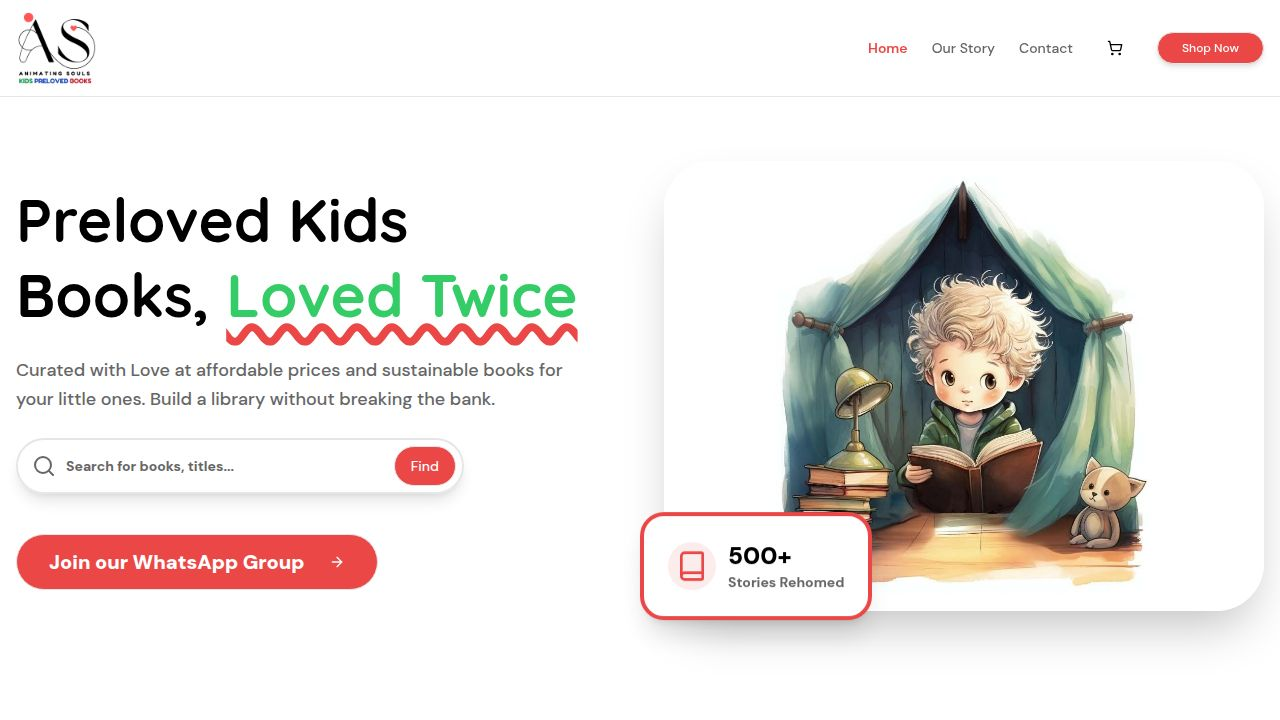
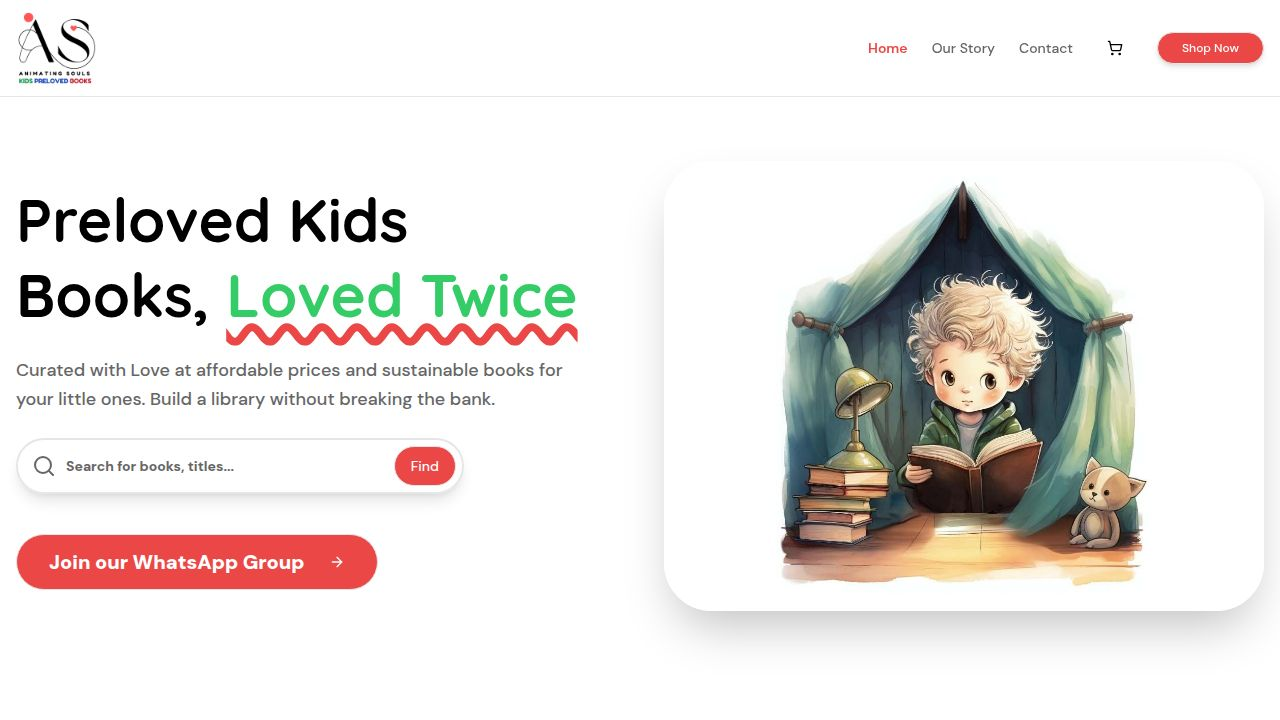
Refine website layout and visual appeal for improved user experience
Update homepage hero section to remove the floating badge and enhance the "Shop by Type" section with unique colors and images. Simplify the "Our Story" page by removing stylized boxes and present content in paragraphs. Adjust Rekha's testimonial location to "India" and remove specific info-boxes from the homepage for a cleaner aesthetic.

Replit-Commit-Author: Agent
Replit-Commit-Session-Id: 12e470dd-af60-4a19-88cd-6d650ea7816f
Replit-Commit-Checkpoint-Type: full_checkpoint
Replit-Commit-Event-Id: 63040621-a51c-4866-9b80-9bc93127da32
Replit-Commit-Screenshot-Url: https://storage.googleapis.com/screenshot-production-us-central1/ba9d9e63-1f79-4c0d-8176-77591e274810/12e470dd-af60-4a19-88cd-6d650ea7816f/u0h1t5J
Replit-Helium-Checkpoint-Created: true

Changed region(s): [[0.5, 0.7028, 0.6875, 0.8861]]

diff --git a/client/src/pages/home.tsx b/client/src/pages/home.tsx
@@ -92,19 +92,6 @@ export default function Home() {
                   className="w-full h-full object-cover"
                 />
               </div>
-              
-              {/* Floating Badge */}
-              <div className="absolute -bottom-6 -left-6 bg-white p-6 rounded-3xl shadow-xl border-4 border-primary animate-bounce hidden md:block">
-                <div className="flex items-center gap-3">
-                  <div className="bg-primary/10 p-2 rounded-xl">
-                    <BookIcon className="h-8 w-8 text-primary" />
-                  </div>
-                  <div>
-                    <p className="font-black text-2xl">500+</p>
-                    <p className="text-sm font-bold text-muted-foreground">Stories Rehomed</p>
-                  </div>
-                </div>
-              </div>
             </div>
           </div>
         </div>
@@ -159,14 +146,14 @@ export default function Home() {
           >
             <CarouselContent className="-ml-4">
               {[
-                { id: 'Board Book', label: 'Board Books', color: 'bg-primary/10', borderColor: 'border-primary' },
-                { id: 'Paperback', label: 'Paperbacks', color: 'bg-chart-2/10', borderColor: 'border-chart-2' },
-                { id: 'Hardcover', label: 'Hardcovers', color: 'bg-accent/10', borderColor: 'border-accent' },
-                { id: 'Disney Marvel', label: 'Disney Marvel', color: 'bg-chart-1/10', borderColor: 'border-chart-1' },
-                { id: 'General Knowledge', label: 'GK Books', color: 'bg-secondary/10', borderColor: 'border-secondary' },
-                { id: 'Phonics', label: 'Phonics', color: 'bg-primary/20', borderColor: 'border-primary' },
-                { id: 'Activity Book', label: 'Activity', color: 'bg-chart-2/20', borderColor: 'border-chart-2' },
-                { id: 'below-50', label: 'Below 50Rs', color: 'bg-accent/20', borderColor: 'border-accent' },
+                { id: 'Board Book', label: 'Board Books', color: 'bg-[#FFEBEE]', borderColor: 'border-[#FFCDD2]', image: 'https://images.unsplash.com/photo-1512820790803-83ca734da794?q=80&w=200&h=150&auto=format&fit=crop' },
+                { id: 'Paperback', label: 'Paperbacks', color: 'bg-[#E3F2FD]', borderColor: 'border-[#BBDEFB]', image: 'https://images.unsplash.com/photo-1544947950-fa07a98d237f?q=80&w=200&h=150&auto=format&fit=crop' },
+                { id: 'Hardcover', label: 'Hardcovers', color: 'bg-[#F1F8E9]', borderColor: 'border-[#DCEDC8]', image: 'https://images.unsplash.com/photo-1495446815901-a7297e633e8d?q=80&w=200&h=150&auto=format&fit=crop' },
+                { id: 'Disney Marvel', label: 'Disney Marvel', color: 'bg-[#FFF3E0]', borderColor: 'border-[#FFE0B2]', image: 'https://images.unsplash.com/photo-1618519764620-7403abdbdfe9?q=80&w=200&h=150&auto=format&fit=crop' },
+                { id: 'General Knowledge', label: 'GK Books', color: 'bg-[#F3E5F5]', borderColor: 'border-[#E1BEE7]', image: 'https://images.unsplash.com/photo-1532012197267-da84d127e765?q=80&w=200&h=150&auto=format&fit=crop' },
+                { id: 'Phonics', label: 'Phonics', color: 'bg-[#E0F7FA]', borderColor: 'border-[#B2EBF2]', image: 'https://images.unsplash.com/photo-1503676260728-1c00da094a0b?q=80&w=200&h=150&auto=format&fit=crop' },
+                { id: 'Activity Book', label: 'Activity', color: 'bg-[#FFFDE7]', borderColor: 'border-[#FFF9C4]', image: 'https://images.unsplash.com/photo-1589998059171-988d887df646?q=80&w=200&h=150&auto=format&fit=crop' },
+                { id: 'below-50', label: 'Below 50Rs', color: 'bg-[#EFEBE9]', borderColor: 'border-[#D7CCC8]', image: 'https://images.unsplash.com/photo-1516979187457-637abb4f9353?q=80&w=200&h=150&auto=format&fit=crop' },
               ].map((type, index) => (
                 <CarouselItem key={index} className="pl-4 md:basis-1/3 lg:basis-1/4">
                   <Link href={`/shop?type=${type.id}`}>
@@ -175,8 +162,12 @@ export default function Home() {
                       type.color,
                       type.borderColor
                     )}>
-                      <div className="w-full h-32 bg-white/50 relative overflow-hidden flex items-center justify-center">
-                        <BookIcon className="h-16 w-16 opacity-20" />
+                      <div className="w-full h-32 bg-white/50 relative overflow-hidden">
+                        <img 
+                          src={type.image}
+                          alt={type.label}
+                          className="w-full h-full object-cover mix-blend-multiply opacity-80"
+                        />
                       </div>
                       <div className="p-4 flex flex-col items-center justify-center flex-grow">
                         <h3 className="font-black text-lg leading-tight">{type.label}</h3>
@@ -190,43 +181,6 @@ export default function Home() {
             <CarouselPrevious className="hidden md:flex" />
             <CarouselNext className="hidden md:flex" />
           </Carousel>
-        </div>
-      </section>
-
-      {/* Why Choose Us */}
-      <section className="py-20 px-4">
-        <div className="container mx-auto">
-          <div className="grid md:grid-cols-3 gap-8">
-            <div className="bg-white p-10 rounded-[3rem] border-4 border-border shadow-[0_12px_0_0_var(--border)] group hover:translate-y-[-4px] transition-all">
-              <div className="w-16 h-16 bg-primary/10 rounded-2xl flex items-center justify-center mb-6 text-primary group-hover:scale-110 transition-transform">
-                <ShieldCheck className="h-10 w-10" />
-              </div>
-              <h3 className="text-2xl font-black mb-4">Meticulously Checked</h3>
-              <p className="text-muted-foreground font-bold leading-relaxed">
-                We hand-check every page. No torn edges, no scribbles, just stories ready to be loved again.
-              </p>
-            </div>
-            
-            <div className="bg-white p-10 rounded-[3rem] border-4 border-border shadow-[0_12px_0_0_var(--border)] group hover:translate-y-[-4px] transition-all">
-              <div className="w-16 h-16 bg-chart-2/10 rounded-2xl flex items-center justify-center mb-6 text-chart-2 group-hover:scale-110 transition-transform">
-                <Zap className="h-10 w-10" />
-              </div>
-              <h3 className="text-2xl font-black mb-4">Affordable Magic</h3>
-              <p className="text-muted-foreground font-bold leading-relaxed">
-                Build a diverse library without the hefty price tag. Quality reading should be accessible to all.
-              </p>
-            </div>
-
-            <div className="bg-white p-10 rounded-[3rem] border-4 border-border shadow-[0_12px_0_0_var(--border)] group hover:translate-y-[-4px] transition-all">
-              <div className="w-16 h-16 bg-accent/10 rounded-2xl flex items-center justify-center mb-6 text-accent group-hover:scale-110 transition-transform">
-                <Clock className="h-10 w-10" />
-              </div>
-              <h3 className="text-2xl font-black mb-4">Eco-Friendly Reading</h3>
-              <p className="text-muted-foreground font-bold leading-relaxed">
-                Rehoming books saves trees and reduces waste. A sustainable choice for a brighter future.
-              </p>
-            </div>
-          </div>
         </div>
       </section>
 

diff --git a/client/src/pages/about.tsx b/client/src/pages/about.tsx
@@ -11,12 +11,9 @@ export default function About() {
             This journey didn’t begin as a business. It began with a child and a book.
           </p>
 
-          <div className="bg-secondary/20 p-8 rounded-[2rem] border-4 border-border">
-            <p className="text-xl text-primary font-black mb-4">Hi, I’m Archana.</p>
-            <p>
-              For over 13 years, my world revolved around graphic design and marketing communication. Deadlines, pixels, brand stories. I loved the craft. Then life quietly changed shape.
-            </p>
-          </div>
+          <p>
+            Hi, I’m Archana. For over 13 years, my world revolved around graphic design and marketing communication. Deadlines, pixels, brand stories. I loved the craft. Then life quietly changed shape.
+          </p>
           
           <p>
             When I stepped away from my IT career for maternity, I didn’t plan to start a business. I simply wanted to spend meaningful time with my son. Like many parents, I noticed something unsettling. Screens were everywhere. Attention spans were shrinking. Physical books were slowly disappearing from daily life.
@@ -42,11 +39,9 @@ export default function About() {
             Today, with over three years of experience, Animating Souls has grown many folds. Not just in numbers, but in purpose.
           </p>
 
-          <div className="p-8 rounded-[2rem] border-4 border-accent/20">
-            <p>
-              Our goal is simple. Encourage children to read. Help parents reconnect with their kids beyond screens. Make books accessible, affordable, and joyful. And remind families that imagination still matters.
-            </p>
-          </div>
+          <p>
+            Our goal is simple. Encourage children to read. Help parents reconnect with their kids beyond screens. Make books accessible, affordable, and joyful. And remind families that imagination still matters.
+          </p>
 
           <p>
             Every pre-loved book here carries a past and promises a new beginning. If it finds its way into your child’s hands, our story has done its job.

diff --git a/client/src/lib/data.ts b/client/src/lib/data.ts
@@ -169,7 +169,7 @@ export const TESTIMONIALS = [
   {
     id: 5,
     name: "Rekha",
-    location: "Mumbai, India",
+    location: "India",
     text: "The posting with detailed video and the prompt response makes me trust Animating souls and place constant order of books for my kid."
   },
   {
